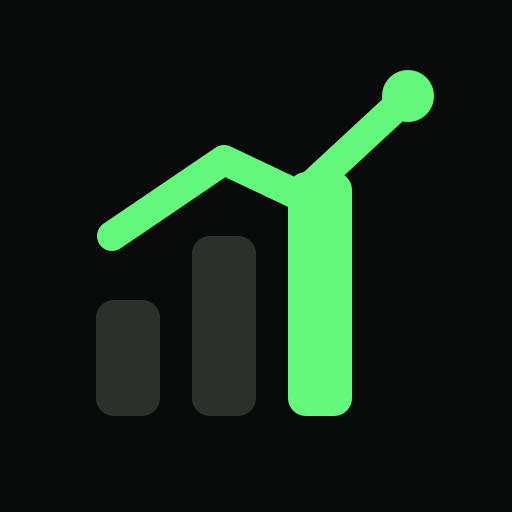
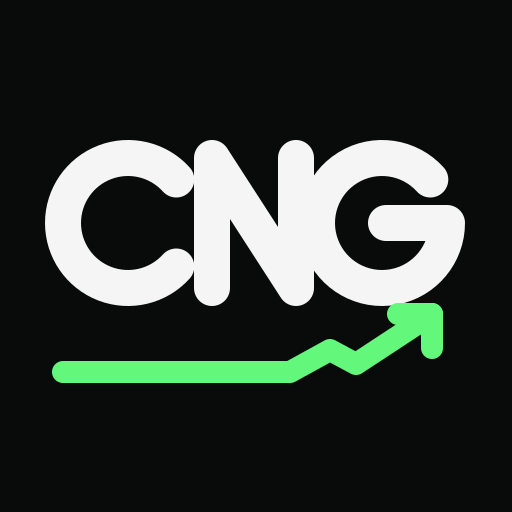
Nouvelle identité : CNG Vinted, monogramme CNG avec courbe de bénéfice
Claude-Session: https://claude.ai/code/session_01GMTUoZXKypq9fPCgYYkBWg

diff --git a/index.html b/index.html
@@ -7,7 +7,7 @@
     <meta name="apple-mobile-web-app-capable" content="yes" />
     <meta name="mobile-web-app-capable" content="yes" />
     <meta name="apple-mobile-web-app-status-bar-style" content="black-translucent" />
-    <meta name="apple-mobile-web-app-title" content="Profit" />
+    <meta name="apple-mobile-web-app-title" content="CNG Vinted" />
     <meta name="description" content="Comptabilité, stock et rentabilité pour l'achat-revente sur Vinted." />
     <link rel="manifest" href="./manifest.webmanifest" />
     <link rel="icon" href="./icon.svg" type="image/svg+xml" />
@@ -15,7 +15,7 @@
     <link rel="preconnect" href="https://fonts.googleapis.com" />
     <link rel="preconnect" href="https://fonts.gstatic.com" crossorigin />
     <link href="https://fonts.googleapis.com/css2?family=Manrope:wght@400;500;600;700;800&display=swap" rel="stylesheet" />
-    <title>Vinted Profit AI</title>
+    <title>CNG Vinted</title>
   </head>
   <body>
     <div id="root"></div>

diff --git a/src/lib/office.ts b/src/lib/office.ts
@@ -32,7 +32,7 @@ const sheetName = (s: string) => s.replace(/[\\/*?:[\]]/g, ' ').slice(0, 31);
 
 export async function buildWorkbook(tables: Table[]): Promise<Blob> {
   const wb = new ExcelJS.Workbook();
-  wb.creator = 'Vinted Profit AI';
+  wb.creator = 'CNG Vinted';
   wb.created = new Date();
 
   for (const t of tables) {
@@ -277,7 +277,7 @@ export function buildMonthlyPdf(ds: Dataset, month: string): Blob {
   for (let i = 1; i <= pages; i++) {
     doc.setPage(i);
     doc.setFont('helvetica', 'normal').setFontSize(8).setTextColor(...MUTED);
-    doc.text(pdfText(`Vinted Profit AI · bilan mensuel · ${formatMonth(from)} · page ${i}/${pages}`), M, 291);
+    doc.text(pdfText(`CNG Vinted · bilan mensuel · ${formatMonth(from)} · page ${i}/${pages}`), M, 291);
   }
   return doc.output('blob');
 }

diff --git a/src/lib/exports.ts b/src/lib/exports.ts
@@ -330,7 +330,7 @@ export async function restoreBackup(file: Blob): Promise<{ items: number; sales:
   } catch {
     throw new Error("Ce fichier n'est pas une sauvegarde lisible.");
   }
-  if (parsed.format !== BACKUP_FORMAT || !parsed.data) throw new Error("Ce fichier n'est pas une sauvegarde Vinted Profit AI.");
+  if (parsed.format !== BACKUP_FORMAT || !parsed.data) throw new Error("Ce fichier n'est pas une sauvegarde CNG Vinted.");
   const data = parsed.data;
   for (const t of DATA_TABLES) if (data[t] !== undefined && !Array.isArray(data[t])) throw new Error(`Sauvegarde invalide (${t}).`);
   const db = getDb();

diff --git a/public/sw.js b/public/sw.js
@@ -1,6 +1,6 @@
 // Service worker : met l'application en cache pour qu'elle s'ouvre sans réseau.
 // Les données ne passent jamais par ici : elles restent dans IndexedDB sur l'appareil.
-const CACHE = 'vpa-v1';
+const CACHE = 'vpa-v2';
 const SCOPE = self.registration.scope;
 
 self.addEventListener('install', (e) => {

diff --git a/README.md b/README.md
@@ -1,5 +1,7 @@
-# Vinted Profit AI
+# CNG Vinted
 
+
+_Nom de projet : Vinted Profit AI. Nom affiché sur l'iPhone : **CNG Vinted**._
 Application mobile (PWA installable sur iPhone) de comptabilité, de stock et de rentabilité pour l'achat-revente sur Vinted.
 
 **Version 0.4 — Phases 1, 2 et 4 fonctionnelles** (la phase 3, l'assistant IA, attend une clé API). Les données réelles sont enregistrées sur l'appareil et persistent après fermeture.
